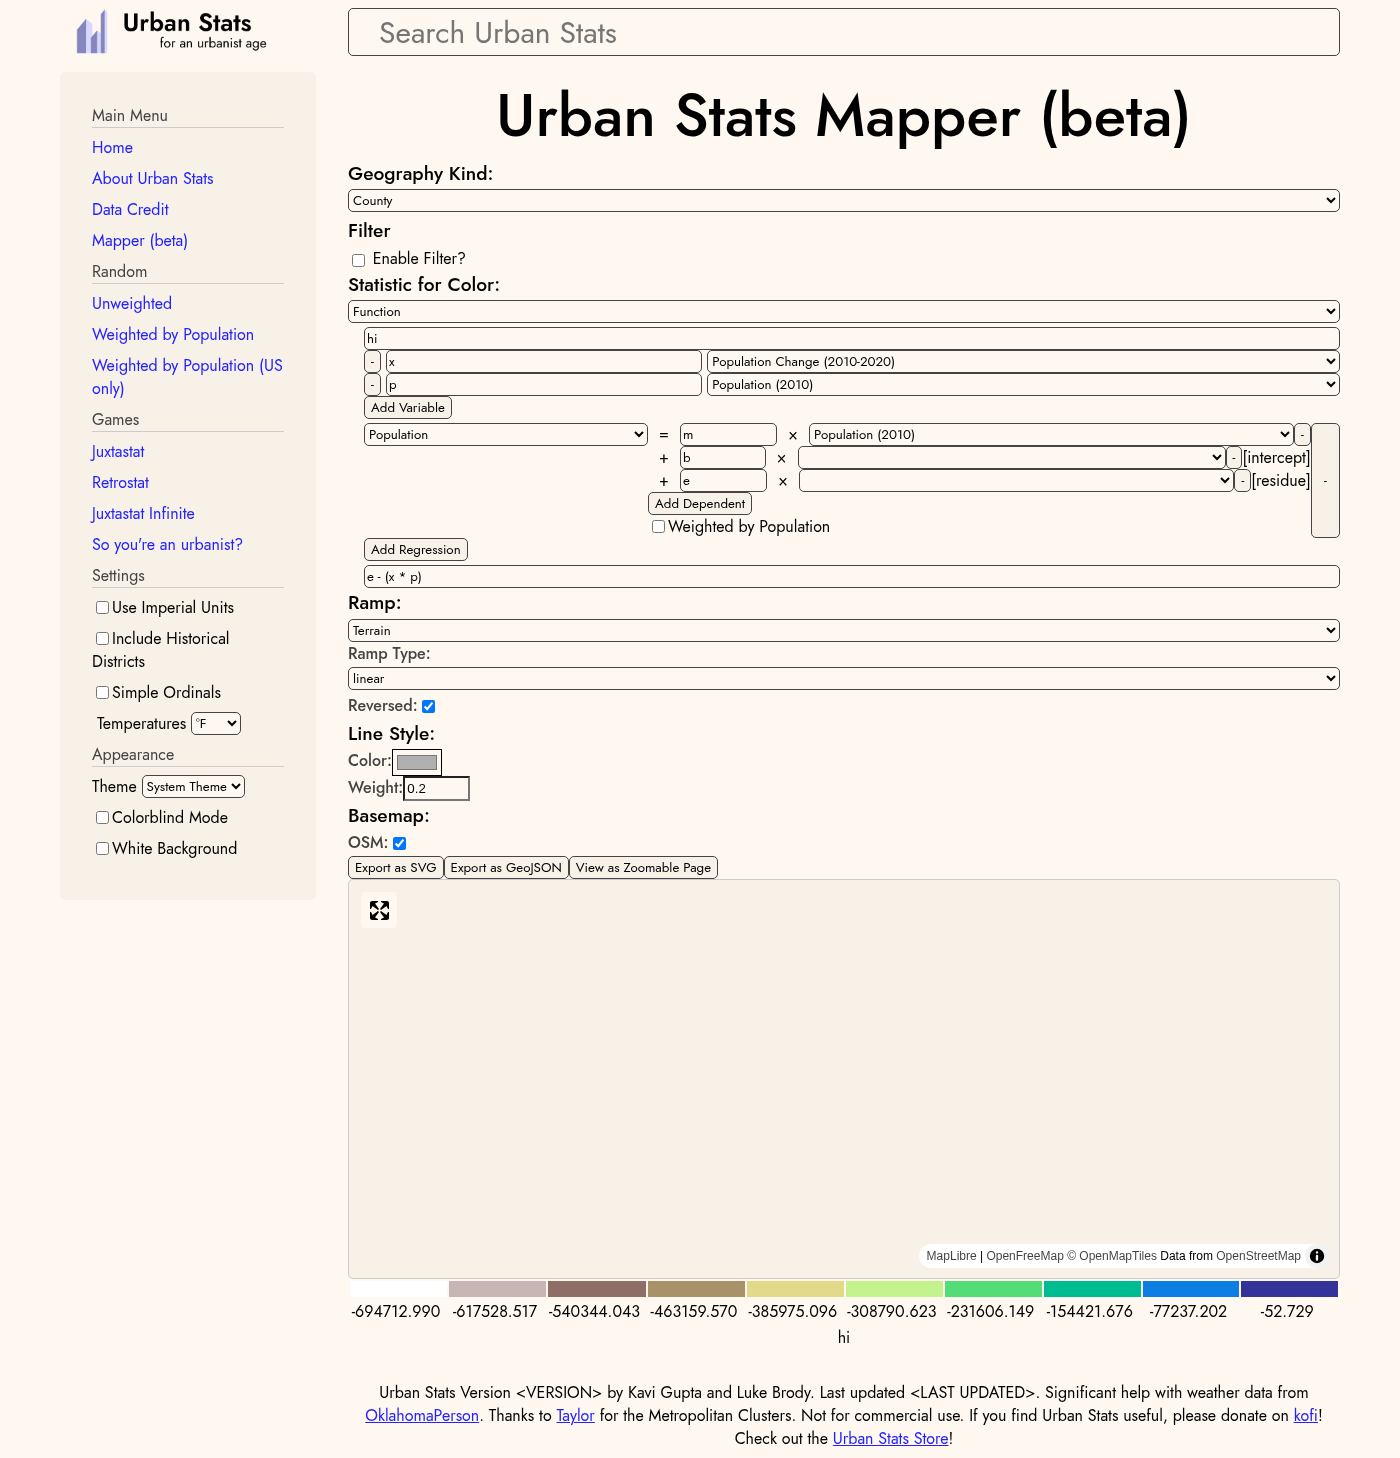
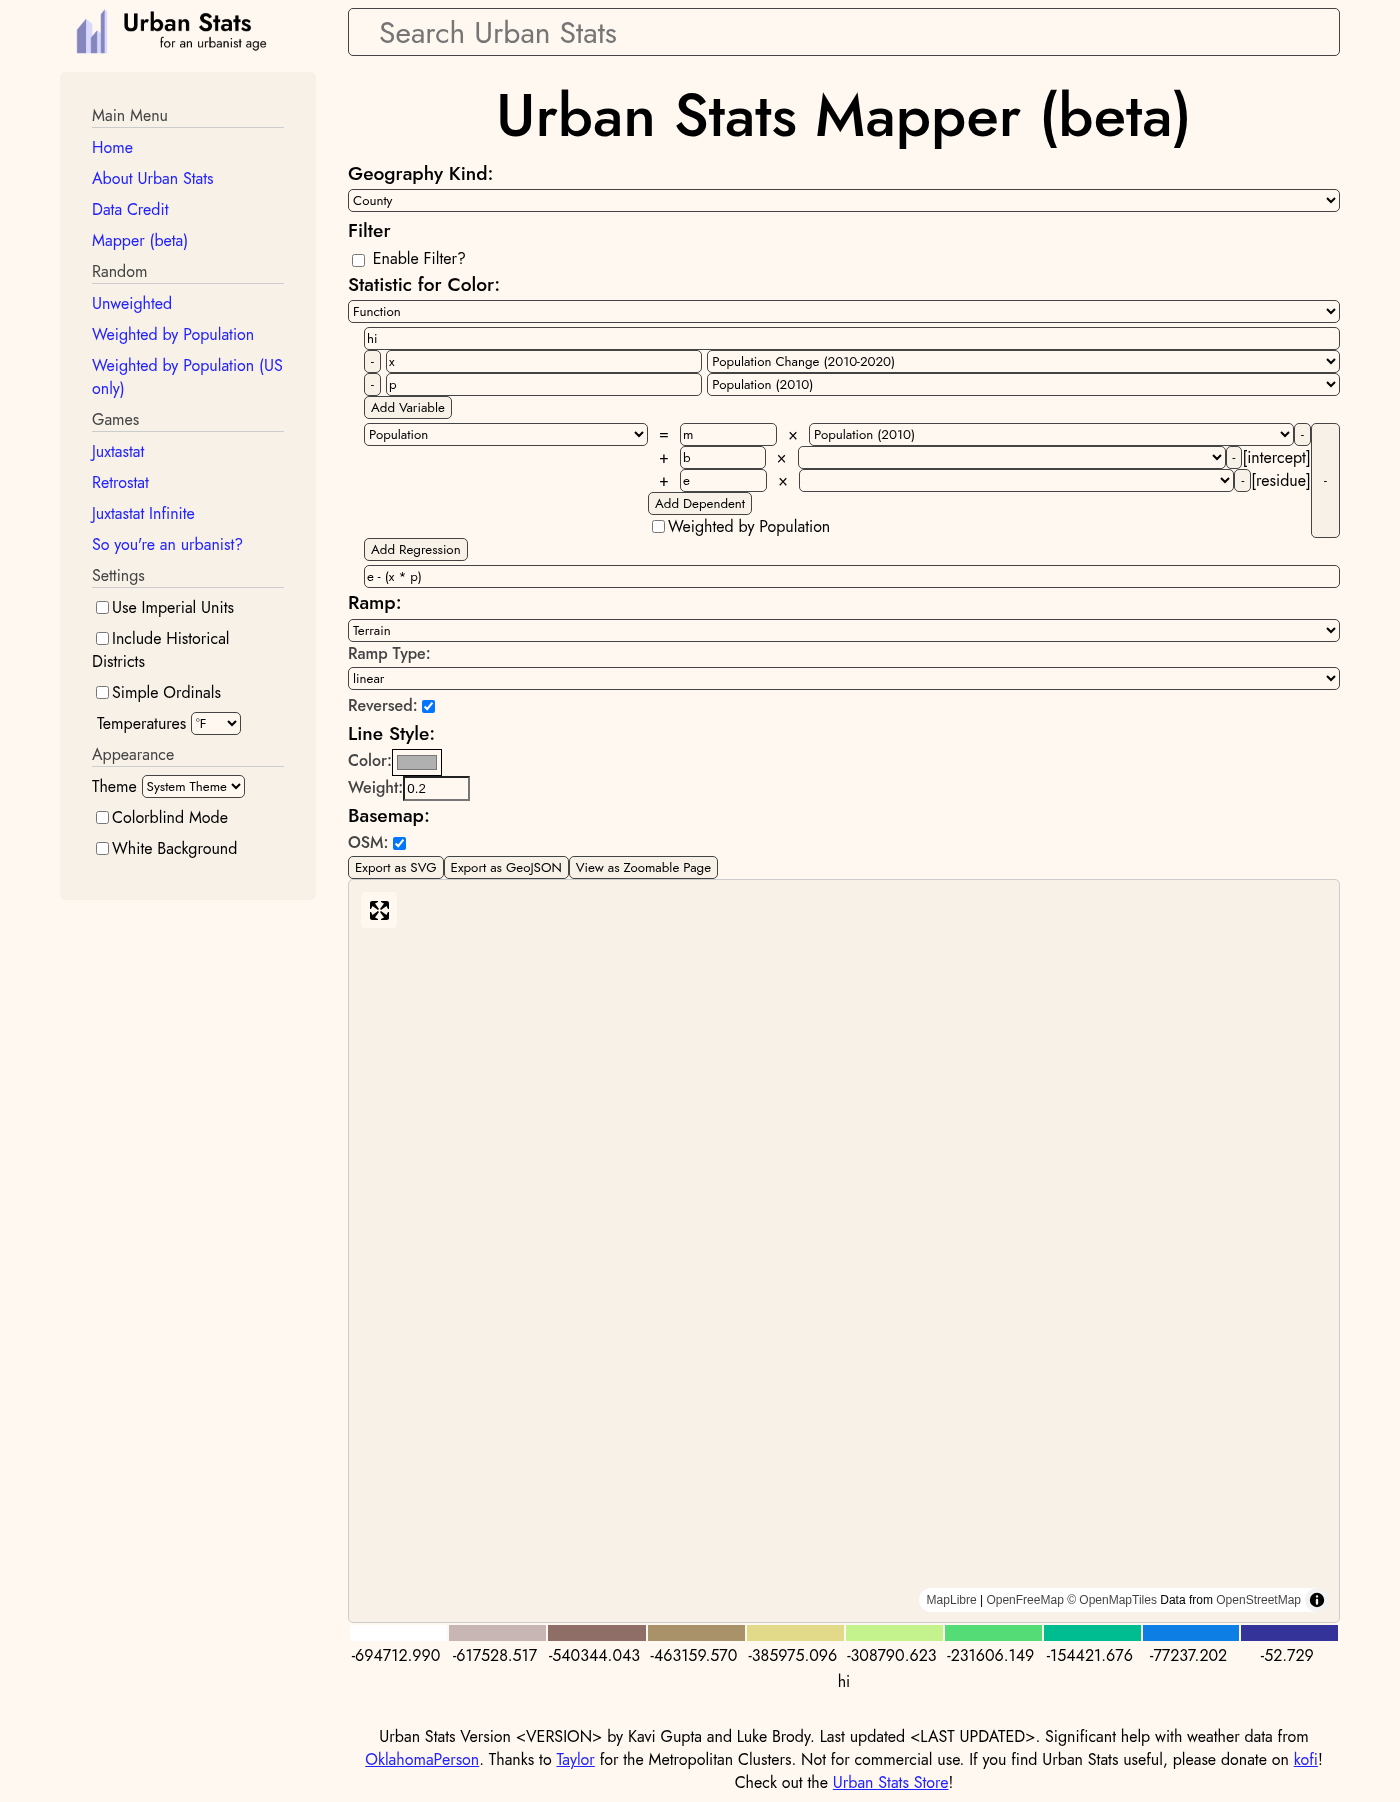
actually set the aspect ratio (#1260)

diff --git a/react/src/components/mapper-panel.tsx b/react/src/components/mapper-panel.tsx
@@ -339,7 +339,7 @@ export function MapperPanel(props: { mapSettings: MapSettings, view: boolean }):
     // eslint-disable-next-line react-hooks/exhaustive-deps -- props.view won't be set except from the navigator
     }, [jsonedSettings, navContext])
 
-    const mapperPanel = (height: string | undefined): ReactNode => {
+    const mapperPanel = (): ReactNode => {
         const ramp = parseRamp(mapSettings.ramp)
         const geographyKind = mapSettings.geography_kind
         const colorStat = mapSettings.color_stat
@@ -358,7 +358,7 @@ export function MapperPanel(props: { mapSettings: MapSettings, view: boolean }):
                         mapRef={mapRef}
                         lineStyle={mapSettings.line_style}
                         basemap={mapSettings.basemap}
-                        height={height === undefined ? undefined : { type: 'fixed-height', value: height }}
+                        height={{ type: 'aspect-ratio', value: 4 / 3 }}
                     />
                 )
     }
@@ -366,7 +366,7 @@ export function MapperPanel(props: { mapSettings: MapSettings, view: boolean }):
     const headerTextClass = useHeaderTextClass()
 
     if (props.view) {
-        return mapperPanel('100%')
+        return mapperPanel()
     }
 
     return (
@@ -383,7 +383,7 @@ export function MapperPanel(props: { mapSettings: MapSettings, view: boolean }):
                     mapRef={mapRef}
                 />
                 {
-                    mapperPanel(undefined) // use default height
+                    mapperPanel()
                 }
             </div>
         </PageTemplate>

diff --git a/react/src/page_template/template.tsx b/react/src/page_template/template.tsx
@@ -141,7 +141,7 @@ function TemplateFooter(): ReactNode {
 function Version(): ReactNode {
     return (
         <span id="current-version">
-            {TestUtils.shared.isTesting ? '<VERSION>' : '26.1.3'}
+            {TestUtils.shared.isTesting ? '<VERSION>' : '26.1.4'}
         </span>
     )
 }
@@ -149,7 +149,7 @@ function Version(): ReactNode {
 function LastUpdated(): ReactNode {
     return (
         <span id="last-updated">
-            {TestUtils.shared.isTesting ? '<LAST UPDATED>' : '2025-07-18'}
+            {TestUtils.shared.isTesting ? '<LAST UPDATED>' : '2025-07-20'}
         </span>
     )
 }
